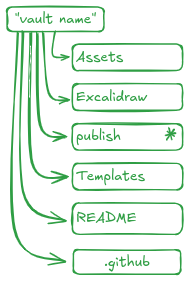
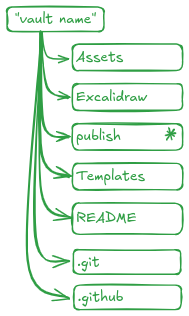
Obsidian edits from Gearbox at 2025-08-04 17:11:21
Affected files:
.obsidian/workspace.json
Assets/osidian-directory-layout.md
publish/Tools/osidian-directory-layout.png

diff --git a/Assets/osidian-directory-layout.md b/Assets/osidian-directory-layout.md
@@ -22,7 +22,9 @@ Templates ^Didr63ga
 
 README ^ojWVMFrw
 
-.github ^PLEoOV1C
+.git ^PLEoOV1C
+
+.github ^SHXhxChh
 
 %%
 ## Drawing
@@ -31,116 +33,104 @@ N4KAkARALgngDgUwgLgAQQQDwMYEMA2AlgCYBOuA7hADTgQBuCpAzoQPYB2KqATLZMzYBXUtiRoIACyh
 
[1 lines of base64/hex data omitted]
 
[2 lines of base64/hex data omitted]
 
[2 lines of base64/hex data omitted]
 
[2 lines of base64/hex data omitted]
 
[2 lines of base64/hex data omitted]
 
[2 lines of base64/hex data omitted]
 
[2 lines of base64/hex data omitted]
 
[2 lines of base64/hex data omitted]
 
[2 lines of base64/hex data omitted]
 
[2 lines of base64/hex data omitted]
 
[2 lines of base64/hex data omitted]
 
[2 lines of base64/hex data omitted]
 
[2 lines of base64/hex data omitted]
 
[2 lines of base64/hex data omitted]
 
[2 lines of base64/hex data omitted]
 
[2 lines of base64/hex data omitted]
 
[2 lines of base64/hex data omitted]
 
[2 lines of base64/hex data omitted]
 
[2 lines of base64/hex data omitted]
 
[2 lines of base64/hex data omitted]
 
[2 lines of base64/hex data omitted]
 
[2 lines of base64/hex data omitted]
 
[2 lines of base64/hex data omitted]
 
[2 lines of base64/hex data omitted]
 
[2 lines of base64/hex data omitted]
 
[2 lines of base64/hex data omitted]
 
[2 lines of base64/hex data omitted]
 
[2 lines of base64/hex data omitted]
 
[2 lines of base64/hex data omitted]
 
[2 lines of base64/hex data omitted]
 
[2 lines of base64/hex data omitted]
 
[2 lines of base64/hex data omitted]
 
[2 lines of base64/hex data omitted]
 
[2 lines of base64/hex data omitted]
 
[2 lines of base64/hex data omitted]
 
[2 lines of base64/hex data omitted]
 
[2 lines of base64/hex data omitted]
 
[2 lines of base64/hex data omitted]
 
[2 lines of base64/hex data omitted]
 
[2 lines of base64/hex data omitted]
 
[2 lines of base64/hex data omitted]
 
[2 lines of base64/hex data omitted]
 
[2 lines of base64/hex data omitted]
 
[2 lines of base64/hex data omitted]
 
[2 lines of base64/hex data omitted]
 
[2 lines of base64/hex data omitted]
 
[2 lines of base64/hex data omitted]
 
[2 lines of base64/hex data omitted]
 
[2 lines of base64/hex data omitted]
 
[2 lines of base64/hex data omitted]
 
[1 lines of base64/hex data omitted]
-
[1 lines of base64/hex data omitted]
-
[1 lines of base64/hex data omitted]
-
[1 lines of base64/hex data omitted]
-
[1 lines of base64/hex data omitted]
-
[1 lines of base64/hex data omitted]
-
[1 lines of base64/hex data omitted]
+A===
 ```
 %%
